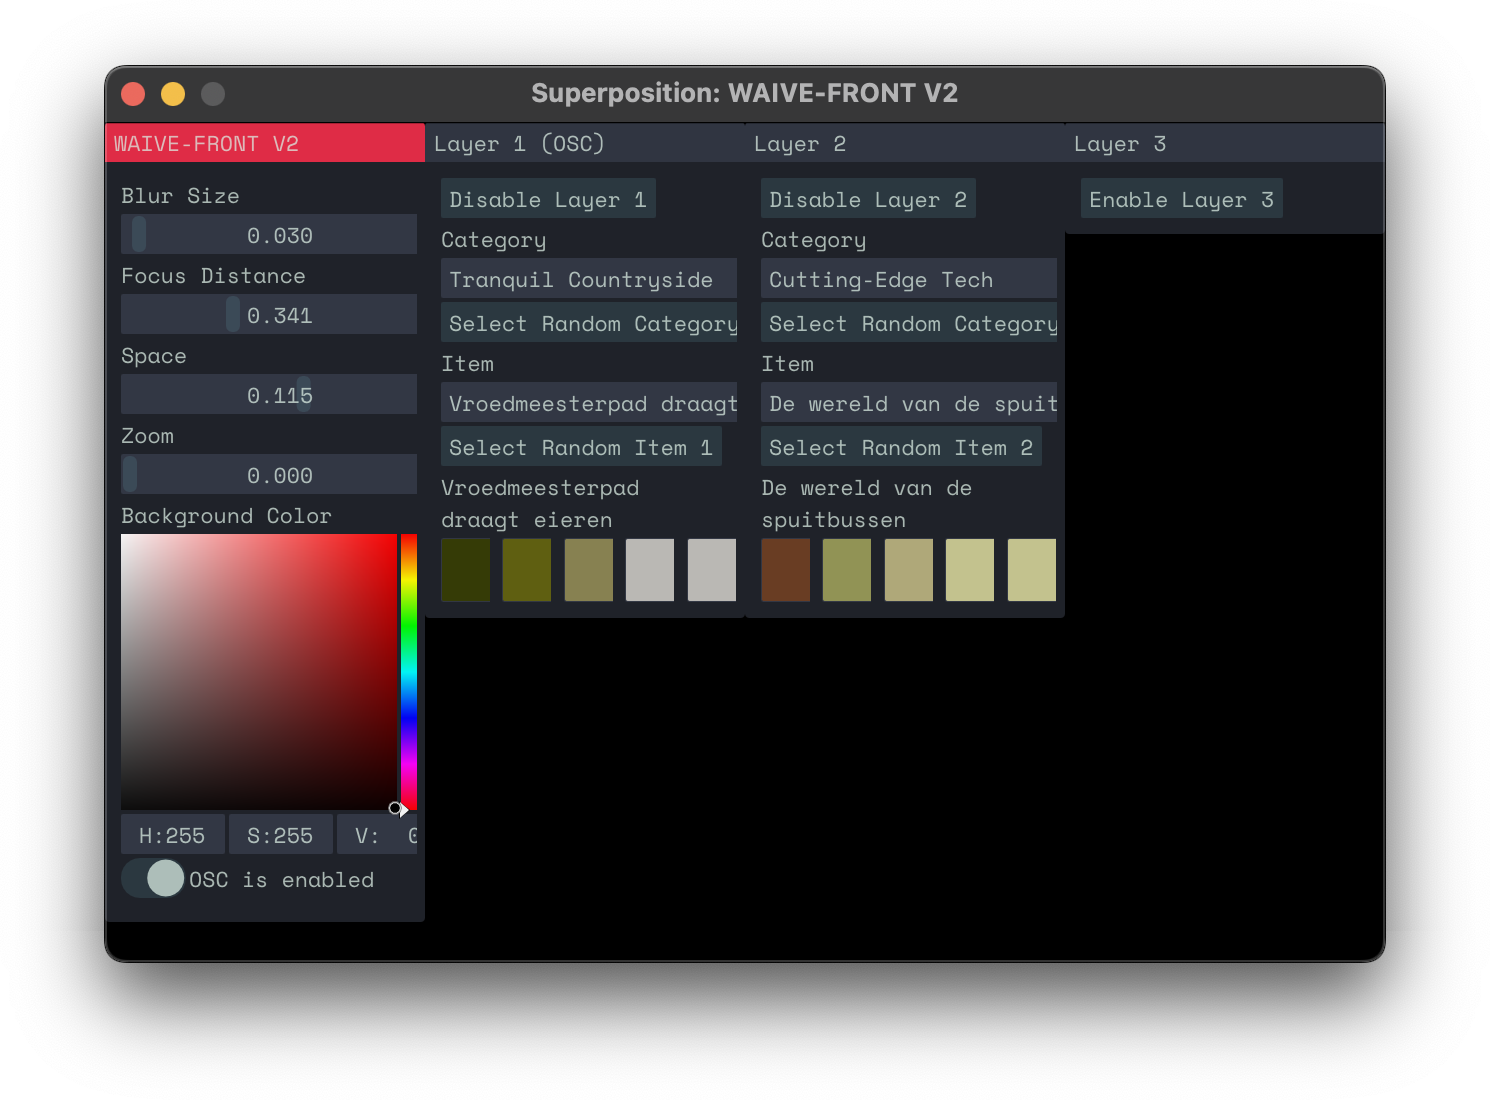
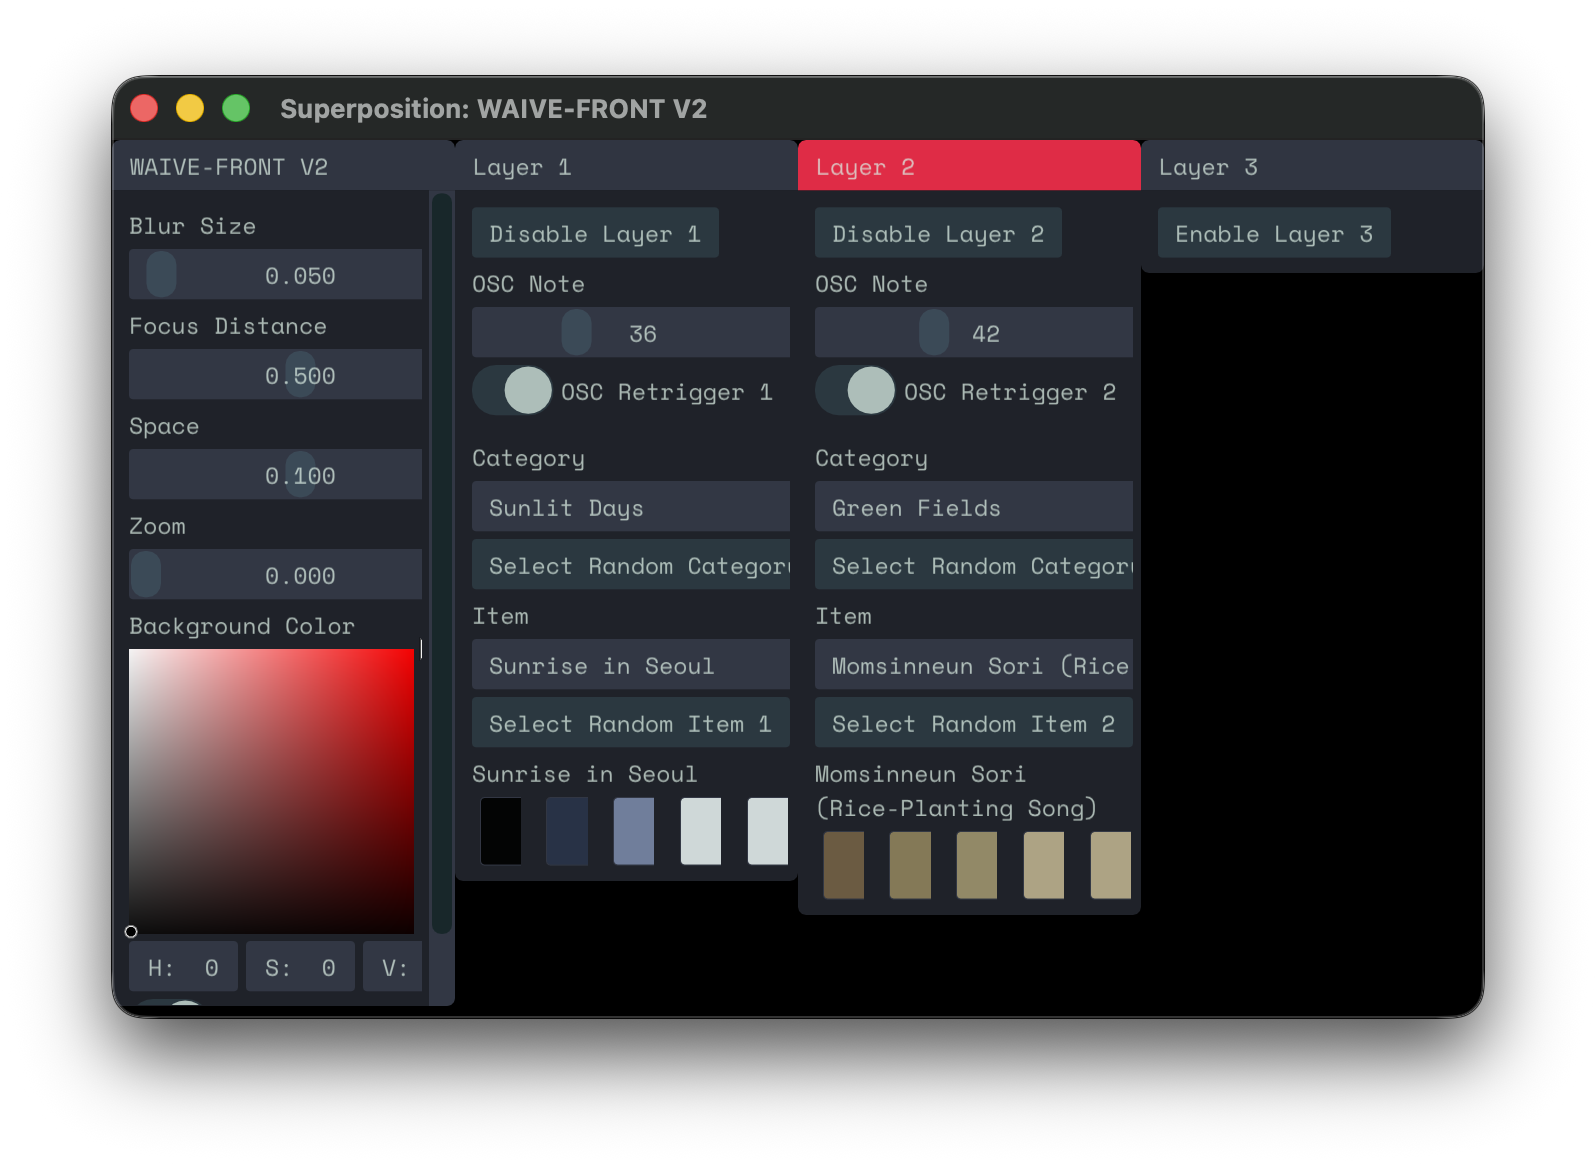
Bring the README up to date
System requirements, where the Mac app goes, the plugin folders in your own
Library, the Documents question on first start, the broken OSC sentence, no
--recursive clone, and a screenshot of the current UI.

diff --git a/README.md b/README.md
@@ -13,7 +13,7 @@
 
 # Quick Start (for non-coders)
 
-Follow these instructions to get started.
+Follow these instructions to get started. WAIVE-FRONT runs on macOS 11 or later (Apple Silicon and Intel) and on 64-bit Windows, as a plugin in your DAW. On macOS there is also a standalone app.
 
 ### 1. Install the WAIVE-FRONT datasets
 <details>
@@ -58,16 +58,16 @@ The Korean footage is licensed under the Korea Open Government License, Type 1 o
 <i>Click to open instructions</i>
 </summary>
 
-Download the build for your operating system from the [releases](https://github.com/superpositioncc/waive-front-v2/releases) page and place the plugin in the plugins folder of your DAW. On macOS there is a VST3, an Audio Unit (for Logic Pro and GarageBand) and a standalone app. On Windows there is a VST3. On macOS, the simplest way to open these folders is by opening Finder and then pressing `cmd+shift+g`, and pasting the path from below.
+Download the build for your operating system from the [releases](https://github.com/superpositioncc/waive-front-v2/releases) page and place the plugin in the plugins folder of your DAW. On macOS there is a VST3, an Audio Unit (for Logic Pro and GarageBand) and a standalone app; put the app in your Applications folder. On Windows there is a VST3. On macOS, the simplest way to open these folders is by opening Finder and then pressing `cmd+shift+g`, and pasting the path from below.
 
-Common (system-wide) plugin paths:
+Common (system-wide) plugin paths. On macOS, `~/Library/Audio/Plug-Ins/VST3` and `~/Library/Audio/Plug-Ins/Components` work as well, without asking for your password.
 
 |         | VST3                                 | Audio Units                          |
 | ------- | ------------------------------------ | ------------------------------------ |
 | macOS   | `/Library/Audio/Plug-ins/VST3`       | `/Library/Audio/Plug-ins/Components` |
 | Windows | `C:\Program Files\Common Files\VST3` | _n/a_                                |
 
-In your DAW, rescan plugins if it does not automatically.
+In your DAW, rescan plugins if it does not automatically. The first time WAIVE-FRONT starts, macOS asks whether it may use your Documents folder, where the footage is; allow it.
 
 To show the visuals fullscreen, for instance on a projector: drag the Viewer window to that screen, then double-click it or press `F`. Press `Esc` or double-click again to leave fullscreen.
 
@@ -75,7 +75,7 @@ To show the visuals fullscreen, for instance on a projector: drag the Viewer win
 
 If you use both [WAIVE](https://github.com/ThunderboomRecords/WAIVE) and WAIVE-FRONT at the same time on the same computer, they should communicate out of the box if your project is playing in your DAW.
 
-WAIVE-FRONT needs UDP port 8000 to be available, because it will listen for OSC messages there. This way, you can use   to control the visuals.
+WAIVE-FRONT needs UDP port 8000 to be available, because it will listen for OSC messages there. This way, WAIVE, or any other software that sends OSC, can control the visuals.
 </details>
 
 &nbsp;
@@ -101,7 +101,7 @@ WAIVE-FRONT links FFmpeg statically, so the builds run without installing anythi
 
 1. Clone the Git repository.
    ```bash
-   git clone --recursive https://github.com/superpositioncc/waive-front-v2
+   git clone https://github.com/superpositioncc/waive-front-v2
    cd waive-front-v2
    ```
 2. Create the `build` directory and step into it.
